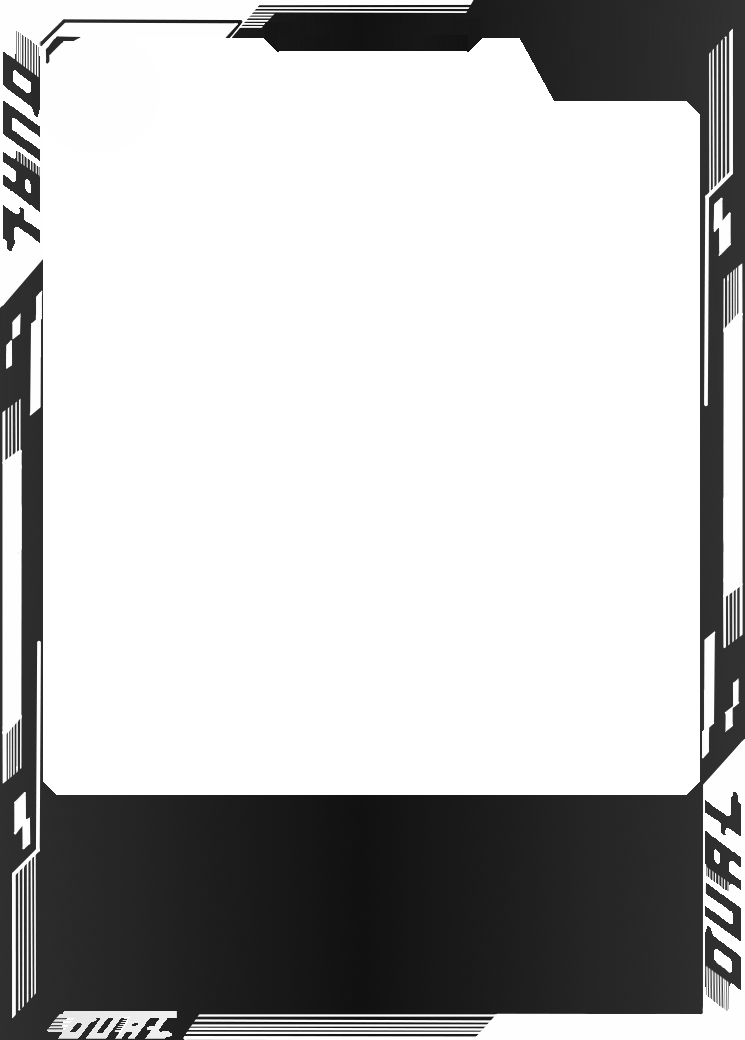
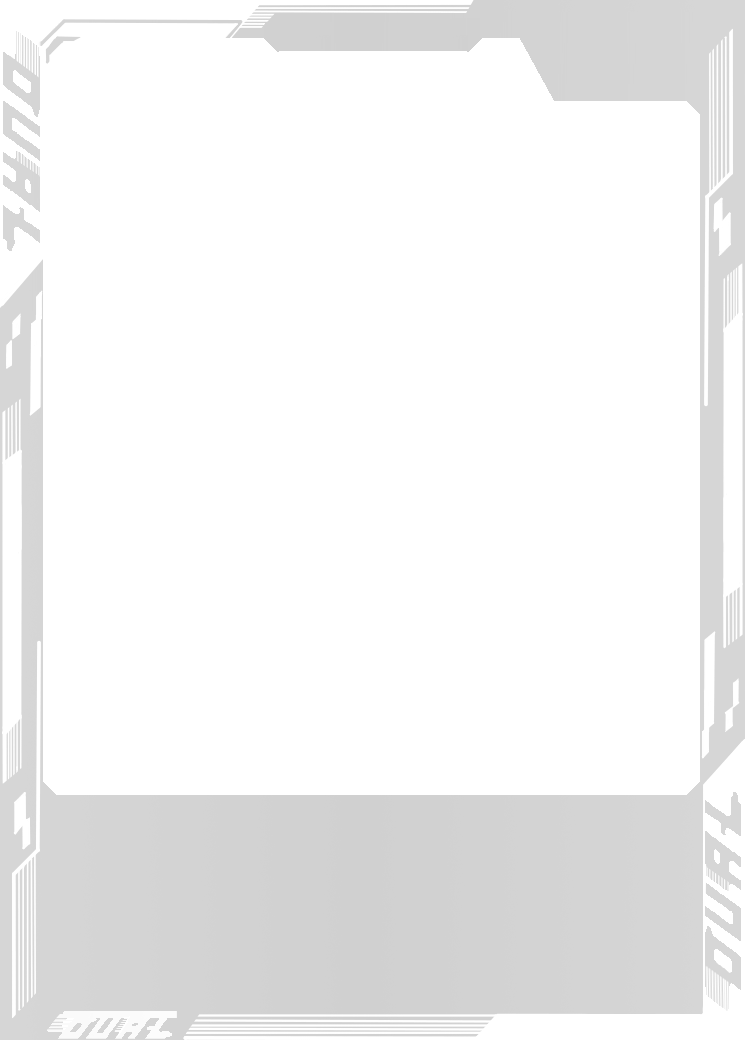
version 0.8.72   link box uses radius; error handling on missing opt colors; fix white-dual frame

diff --git a/src/CustomCreator.js b/src/CustomCreator.js
@@ -65,10 +65,12 @@ import JSZip from 'jszip';
 import { saveAs } from 'file-saver';
 
 
-const version = "0.8.70.2"
-const latest = "fix link box items: italic link requirement, give it a box, font colors, much based on @rlvvmc code"
+const version = "0.8.72"
+const latest = "link box uses radius; error handling on missing opt colors; fix white-dual frame"
 
-// version 0.8.70   const latest = "fix link box items: italic link requirement, give it a box, font colors, much based on @rlvvmc code"
+// version 0.8.72   link box uses radius; error handling on missing opt colors; fix white-dual frame
+// version 0.8.71   darken [Link] courtsey @rlvvmc, move link, burst evo, darken link shading
+// version 0.8.70   fix link box items: italic link requirement, give it a box, font colors, much based on @rlvvmc code"
 // version 0.8.69   possible fix for multiple special evos: specialEvolve is now a textbox; reduce super-wide spaces inside orange keywords
 // version 0.8.68   label colored regions of Dual cards properly; fix arts-evolve box resizing
 // version 0.8.67   move dual option name down a bit
@@ -805,7 +807,7 @@ const test_case_1 = ` {
         "color": "White"
       }
     ],
-    
+    "burstEvolve": "[Burst Digivolve] [FooBarBazMon]: Cost 0 by returning 1 [Rufus Xavier Sarsaparilla] to hand",    
     "effect": "<Custom Keyword> (*This reminder text is in italics.*)",
     "playCost": "-",
     "form": "In-Training",
@@ -2588,6 +2590,9 @@ function drawTextWithSpacing(ctx, text, x, y, spacing, fillSize) {
             const line = lines[colors[i]];
             const colored = (imageOptions.coloredFrame && line) ?
               applyGradientToFrame(shellImages[0], line) : shells[i];
+            if (!colored.complete || colored.naturalWidth === 0) {
+              continue;
+            }
             scaleZoneStart(ctx, i, len, type === "DUAL");
             ctx.drawImage(colored, 0, 0, 2977, 4158-17);
             scaleZoneEnd(ctx);
@@ -2830,7 +2835,7 @@ function drawTextWithSpacing(ctx, text, x, y, spacing, fillSize) {
                 ctx.lineTo(164,height+190)
                 ctx.closePath()
                 const gradient = ctx.createLinearGradient(0, height, 0, height + 220);
-                gradient.addColorStop(0, 'rgba(0,0,0, 0.5)');
+                gradient.addColorStop(0, 'rgba(0,0,0, 1.0)');
                 gradient.addColorStop(1, 'rgba(0,0,0, 0.1)');
                 ctx.fillStyle = gradient;
                 ctx.fill()
@@ -3588,17 +3593,21 @@ function drawTextWithSpacing(ctx, text, x, y, spacing, fillSize) {
         drawBracketedText(ctx, fontSize_n, dna_evo, 270, special_baseline, 3000 * 1, Number(fontSize_n) + Number(imageOptions.lineSpacing), "dna", radius);
         special_baseline -= (delta * .5);
       }
+      if (!empty(burst_evo)) {
+        console.log(3592, burst_evo); 
+        const len = 1;// burst_evo.split("\n").length;
+        special_baseline -= delta * 0.7; 
+        const mode = (len > 1) ? "doublebubble" : "bubble";
+        drawBracketedText(ctx, fontSize_n, burst_evo, 270, special_baseline, 5000, Number(fontSize_n) + Number(imageOptions.lineSpacing), mode, radius);
+        special_baseline -= delta * 0.7 * len * len;
+      }
       if (!empty(spec_evos)) {
         for (const i in spec_evos.reverse()) {
           const spec_evo = spec_evos[i];
-          special_baseline -= (delta);
-          if (i > 0) special_baseline -= delta * 0.4;
+          special_baseline -= (delta * 0.7);
           drawBracketedText(ctx, fontSize_n, spec_evo, 270, special_baseline, 3000 * 1, Number(fontSize_n) + Number(imageOptions.lineSpacing), "bubble", radius);
+          special_baseline -= (delta * 0.7);
         }
-      }
-      if (!empty(burst_evo)) {
-        special_baseline -= (delta * 0.5); // burst bubble is twice as big
-        drawBracketedText(ctx, fontSize_n, burst_evo, 270, special_baseline, 2500, Number(fontSize_n) + Number(imageOptions.lineSpacing), "doublebubble", radius);
       }
 
       let effect = json.effect;
@@ -3637,11 +3646,8 @@ function drawTextWithSpacing(ctx, text, x, y, spacing, fillSize) {
         }
         //let shrink = 1000;
         if (!empty(req)) {
-          // instead of 3000, width of 2700 to save room for link-DP-thingy
-
-          // (alias) drawBracketedText(ctx: any, fontSize: any, text: any, x: any, y: any, _maxWidth: any, lineHeight: any, extra: any, radius: any, preview?: boolean): any
-          // ctx                
-          drawBracketedText(ctx, altFontSize, req, 250, 3740 + delta_y * 2, 2380, Number(altFontSize) + Number(imageOptions.lineSpacing-15), "link");
+          drawBracketedText(ctx, altFontSize, req, 250, 3740 + delta_y * 2,
+            2180, Number(altFontSize) + Number(imageOptions.lineSpacing-15), "link", radius);
         }
         // shrink is not working, we're ignoring max_width
         //let max_width = 2500 - 400 - delta_x * 2 - shrink;

diff --git a/src/text.js b/src/text.js
@@ -373,6 +373,8 @@ function drawColoredRectangle(ctx, x, y, width, height, color, radius) {
     case 'purple': color0 = '#4F0B46'; color1 = '#8B235C'; 
     color2 = '#AF4176'; break; 
     case 'green': color0 = 'darkgreen'; color1 = 'lightgreen'; break;
+    case 'linkgreen': color0 = '#12533e'; color1 = '#18897E'; color2 ='#2CD372'; break;
+
     case 'doublebubble':
     case 'bubble': color0 = 'black'; color1 = 'black'; break;
     case 'darkblue': //color0 = '#0D0D2B'; color1 = '#2A6BA5'; break;
@@ -750,7 +752,7 @@ function getColor(phrase, default_color = 'blue') {
   if (phrase.match(/DigiXros/i)) return 'green';
   if (phrase.match(/Assembly/i)) return 'green';
   if (phrase.match(/Arts .*olve/i)) return 'green';
-  if (phrase === "Link") return 'green';
+  if (phrase === "Link") return 'linkgreen';
   if (['Hand', 'Trash', 'Breeding'].includes(phrase)) return 'purple';
   if (['Once Per Turn', 'Twice Per Turn'].includes(phrase)) return 'red';
   if (phrase.match(/^(Burst )?(Digi|E)volve$/i)) return 'darkblue';
